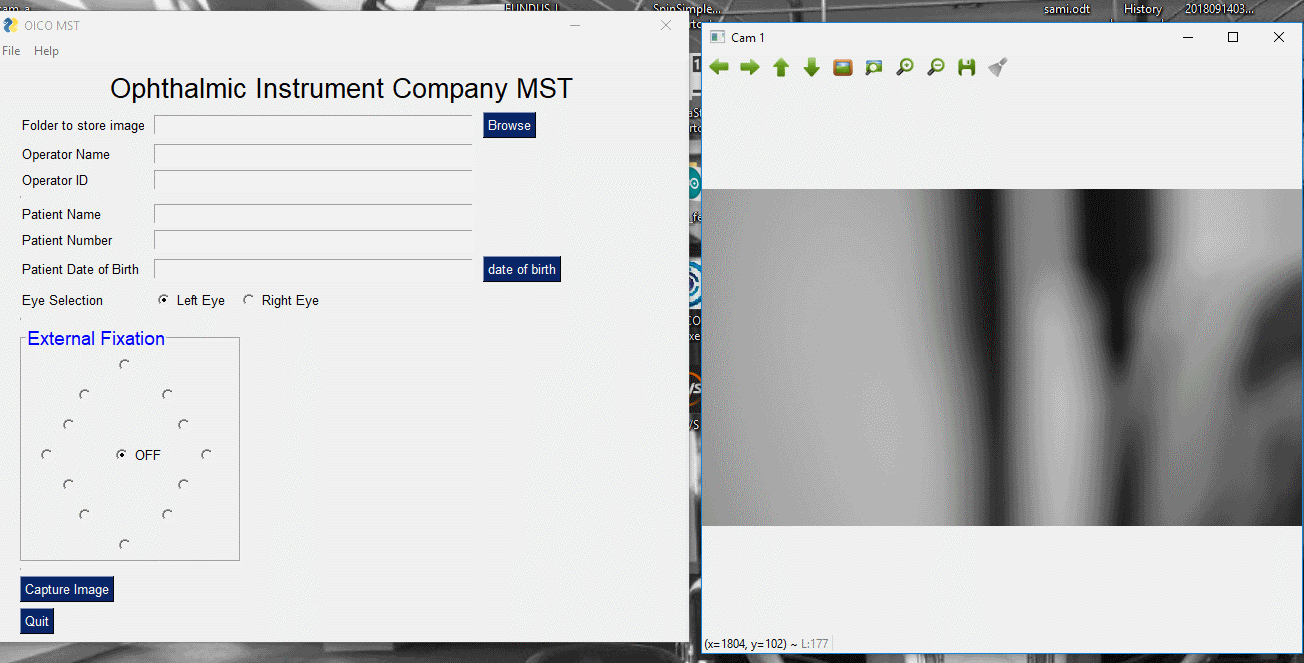
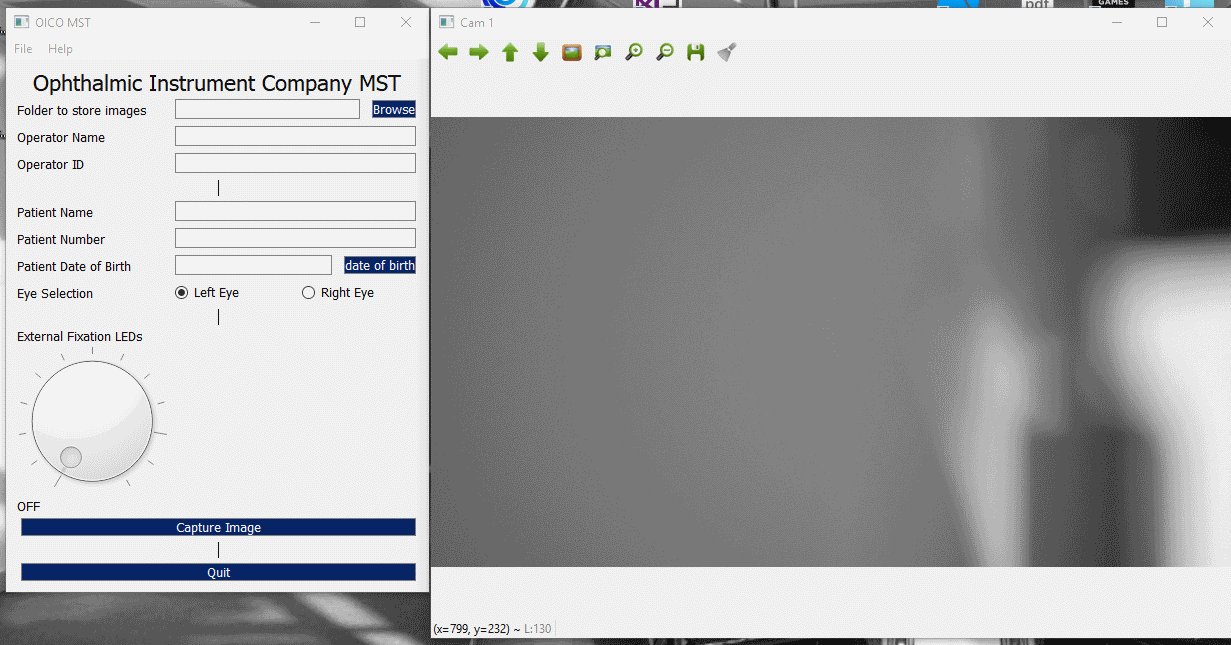
updated dial for external fixation

diff --git a/OICO_MST.py b/OICO_MST.py
@@ -1,6 +1,6 @@
 #Main Graphical User Interface for the Multi Spectral Tomography system
 
-import PySimpleGUI as sg
+import PySimpleGUIQt as sg
 import sys
 import serial
 from serial.tools.list_ports import comports
@@ -24,11 +24,8 @@ video_capture_1.set(4,1080)
 video_capture_2.set(3,2592)
 video_capture_2.set(4,1944)
 
-time.sleep(2) #give the cameras time to make the resolution setting
+time.sleep(1) #give the cameras time to make the resolution setting
 ser.write(str.encode('0')) #start the IR 770nm on arduino
-
-cv2.namedWindow("Cam 1", cv2.WINDOW_NORMAL)
-cv2.resizeWindow("Cam 1", 600,600)
 
 
 #starting up the GUI
@@ -49,7 +46,7 @@ illumination_frame=[
 
 layout = [
     [sg.Menu(menu_def,tearoff=True)],
-    [sg.Text('Ophthalmic Instrument Company MST', size=(40,1), justification='center',font=('Helvetica','20'))],
+    [sg.Text('Ophthalmic Instrument Company MST', size=(40,1), justification='center',font=('Helvetica','16'))],
     [sg.Text('Folder to store images',size=(15,1)), sg.Input(key='_storageFolder_'), sg.FolderBrowse()],
     [sg.Text('Operator Name',size=(15,1)),sg.InputText(key='operatorName')],
     [sg.Text('Operator ID',size=(15,1)),sg.InputText(key='operatorID')],
@@ -59,14 +56,18 @@ layout = [
     [sg.Text('Patient Date of Birth',size=(15,1)),sg.Input(key='_dob_'),sg.CalendarButton('date of birth','_dob_')],
     [sg.Text('Eye Selection',size=(15,1)),sg.Radio('Left Eye',"RADIO1",default=True,key='_LeftEye_'),sg.Radio('Right Eye',"RADIO1",key='_RightEye_')],
     [sg.VerticalSeparator()],
-    [sg.Frame('External Fixation', illumination_frame, font="Any 14", title_color='blue')],
-    [sg.VerticalSeparator()],
+ #   [sg.Frame('External Fixation', illumination_frame, font="Any 14", title_color='blue')],
+    [sg.Text("External Fixation LEDs")],
+    [sg.Dial((1,13),key="ext",enable_events=True,size=(150,150))],
+    [sg.Text("OFF")],
     [sg.Button(button_text='Capture Image')],
-
+    [sg.VerticalSeparator()],
     [sg.Quit()]
 ]
 
 window = sg.Window('OICO MST').Layout(layout)
+
+
 
 def ImageCapture():
     ser.write(str.encode('2')) #start flash sequence
@@ -92,11 +93,13 @@ while True:
     # Capture frame-by-frame
     ret1, frame1 = video_capture_1.read() #grayscale video streamed
     ret2, frame2 = video_capture_2.read() #colour video only captured 
-    event, values = window.ReadNonBlocking() #
+    event, values = window._ReadNonBlocking() #
     
     if (ret1):
         # Display the resulting frame
         grayscale1 = cv2.cvtColor(frame1, cv2.COLOR_BGR2GRAY)
+        cv2.namedWindow("Cam 1", cv2.WINDOW_NORMAL)
+        cv2.resizeWindow("Cam 1", 800,600)
         cv2.imshow('Cam 1', grayscale1)
 
     if cv2.waitKey(1) & 0xFF == ord('q'):
@@ -114,44 +117,44 @@ while True:
     if event == 'Capture Image':
         ImageCapture()
     
-    if values['a'] is True:
+    if values['ext'] == '1':
+        ser.write(str.encode("m"))
+
+    if values['ext'] == '2':
         ser.write(str.encode("a"))
 
-    if values['b'] is True:
+    if values['ext'] == '3':
         ser.write(str.encode("b"))
 
-    if values['c'] is True:
+    if values['ext'] == '4':
         ser.write(str.encode("c"))
 
-    if values['d'] is True:
+    if values['ext'] == '5':
         ser.write(str.encode("d"))
 
-    if values['e'] is True:
+    if values['ext'] == '6':
         ser.write(str.encode("e"))
 
-    if values['f'] is True:
+    if values['ext'] == '7':
         ser.write(str.encode("f"))
 
-    if values['g'] is True:
+    if values['ext'] == '8':
         ser.write(str.encode("g"))
 
-    if values['h'] is True:
+    if values['ext'] == '9':
         ser.write(str.encode("h"))
 
-    if values['i'] is True:
+    if values['ext'] == '10':
         ser.write(str.encode("i"))
 
-    if values['j'] is True:
+    if values['ext'] == '11':
         ser.write(str.encode("j"))
 
-    if values['k'] is True:
+    if values['ext'] == '12':
         ser.write(str.encode("k"))
-
-    if values['l'] is True:
-        ser.write(str.encode("l"))
         
-    if values['m'] is True:
-        ser.write(str.encode("m"))
+    if values['ext'] == '13':
+        ser.write(str.encode("l"))
 
 
 # When everything is done, release the capture
